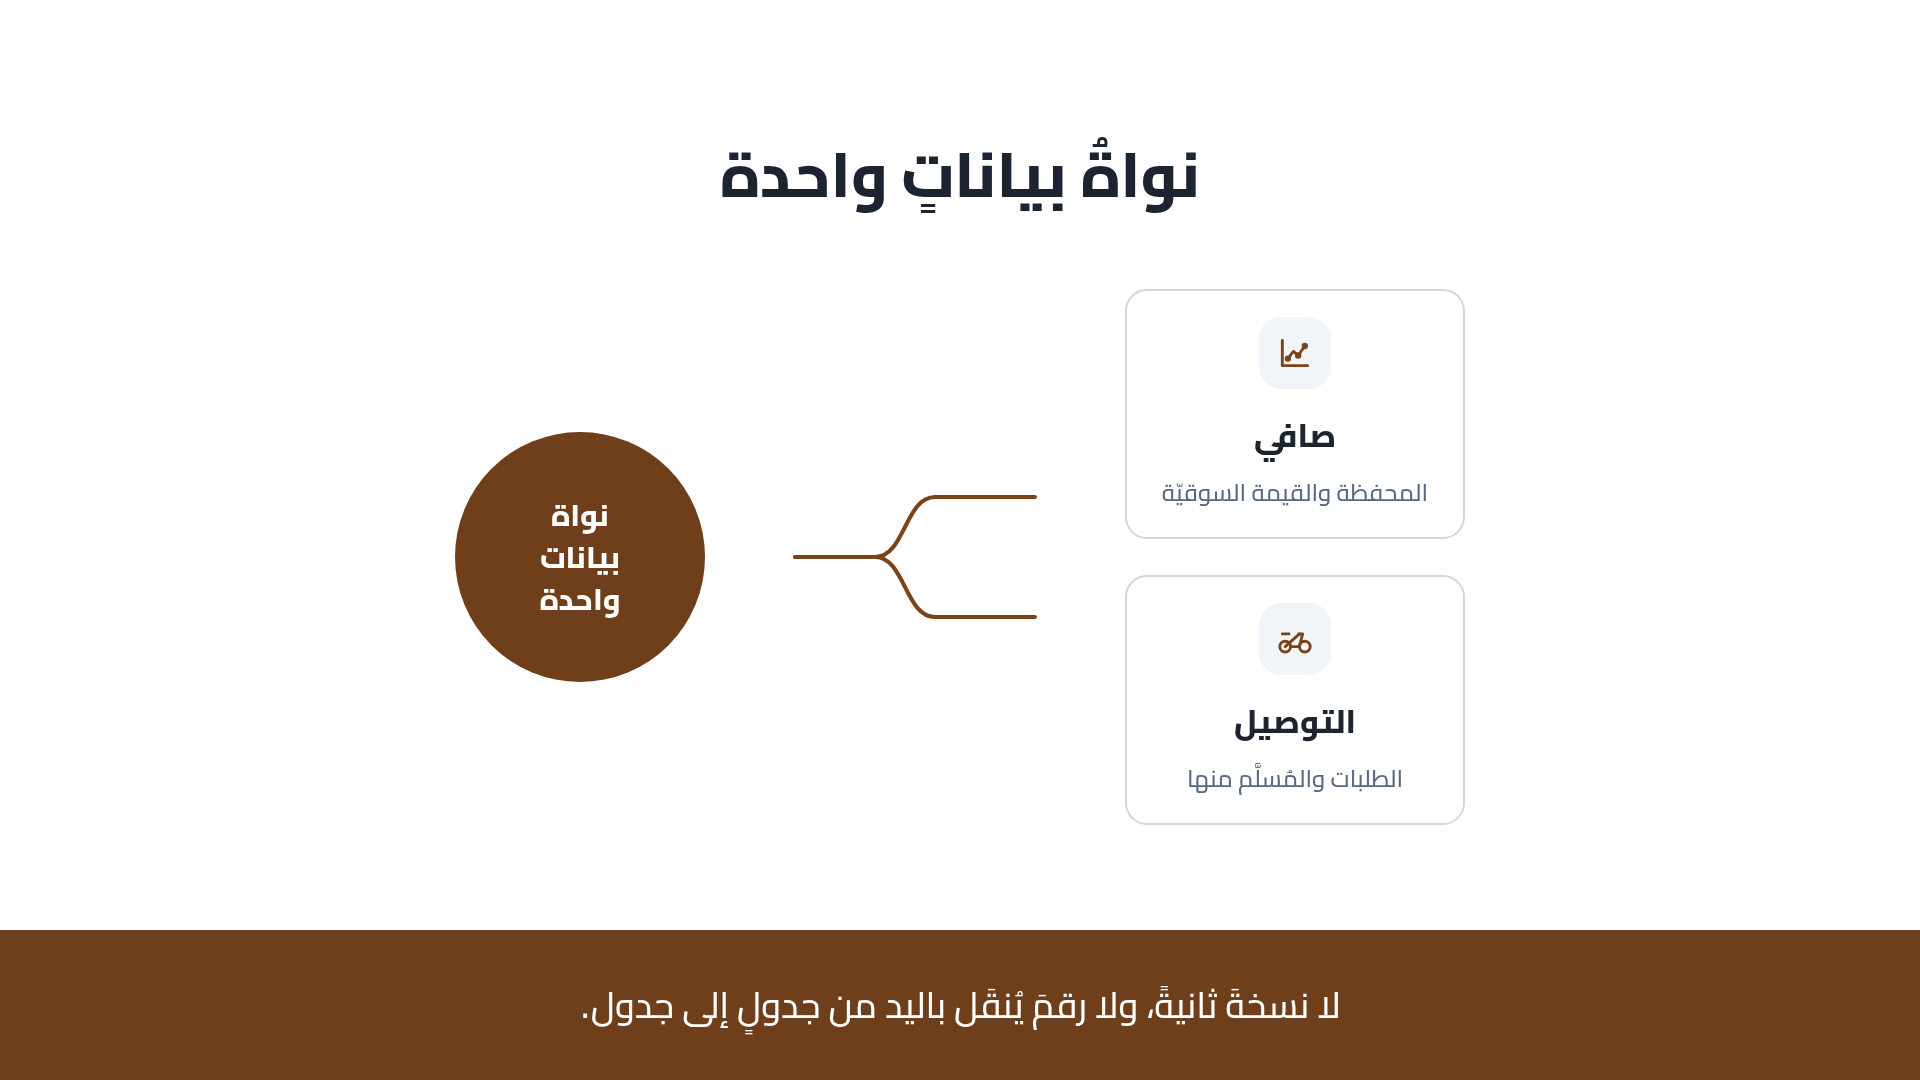
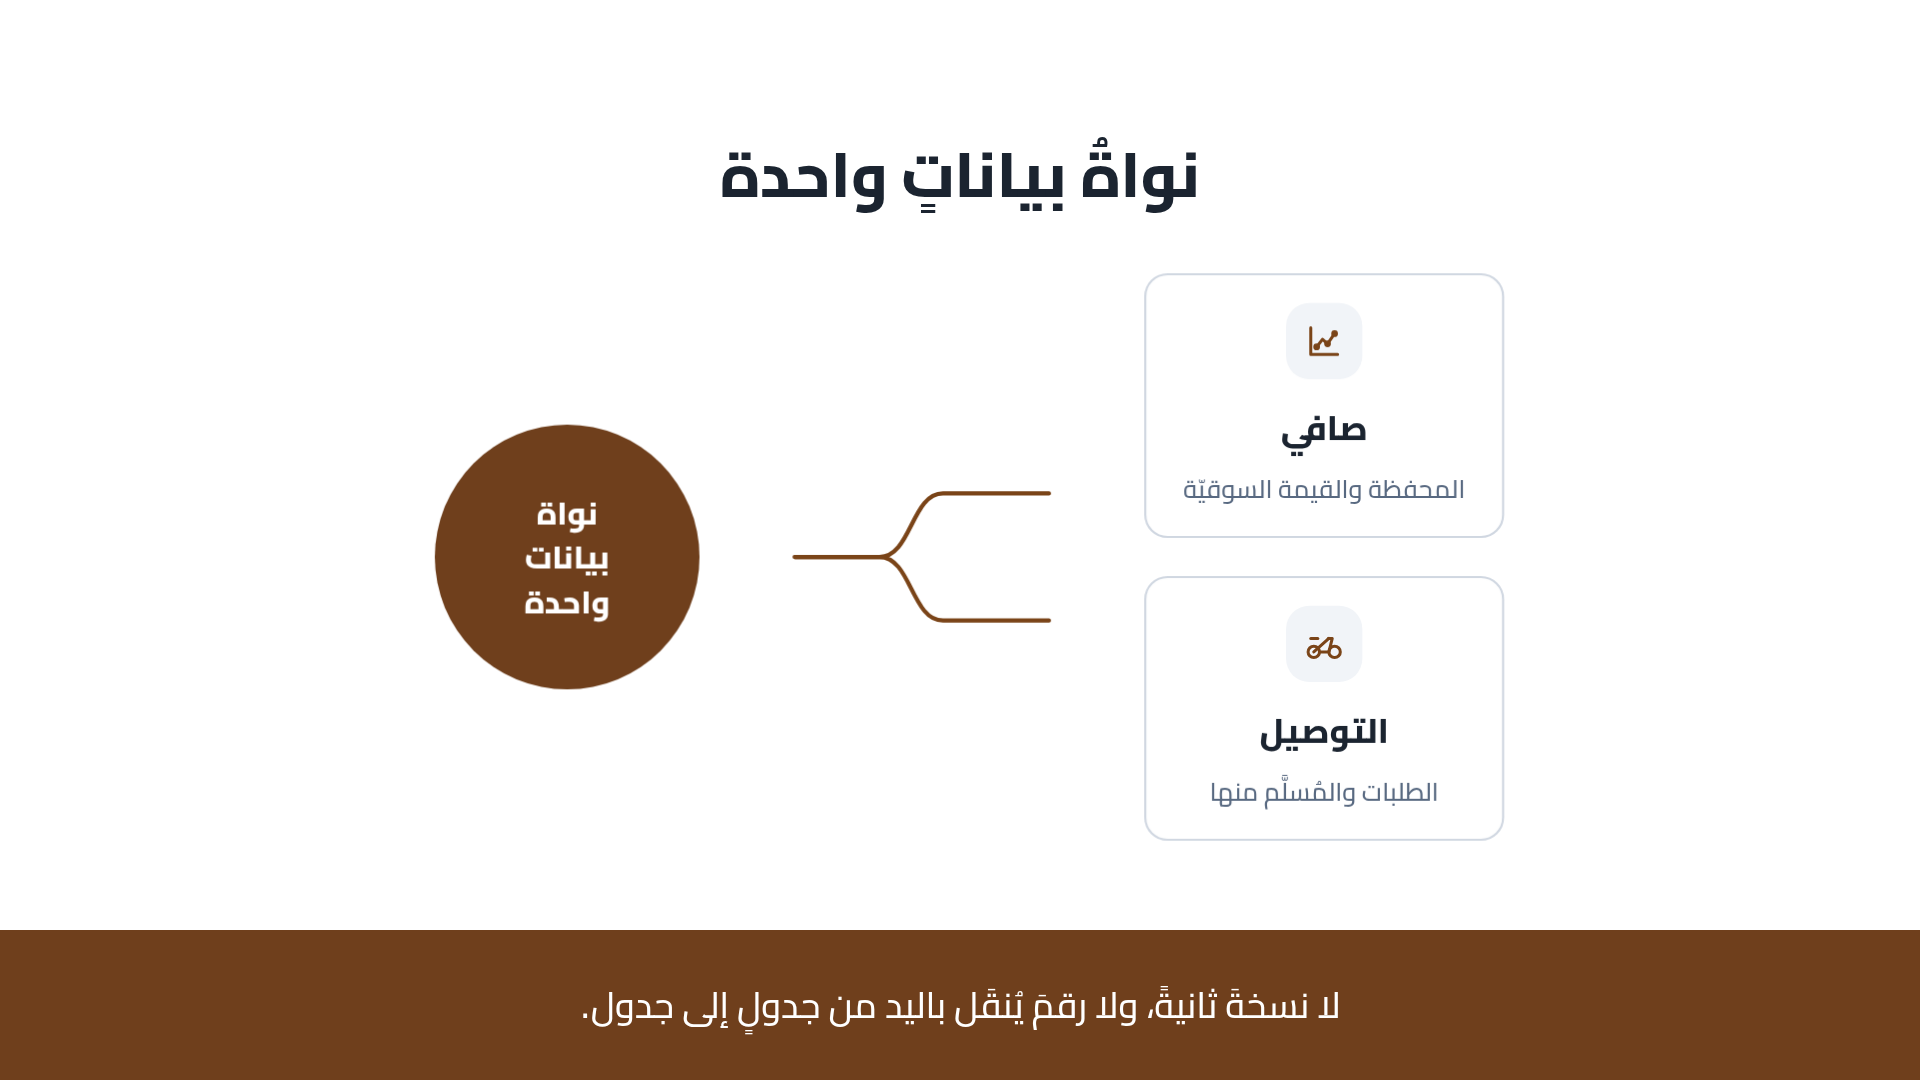
Put a camera on the flow map: push in on the core, then pull back out
The map is the one scene in the film that is a diagram rather than a list,
and it was the one scene where nothing moved once the wires had drawn - two
cards, two lines, a circle, then eleven seconds of stillness.

It now opens wide enough to show that there are two sources, pushes in on the
core as the wires reach it (the point being made at exactly that moment),
holds while the second line is spoken, and pulls back out to leave the whole
shape standing. The transform origin sits off-centre toward the core, so the
push travels toward its subject rather than merely growing.

Two things keep it honest. The extent is bounded at 1.06, not 1.2, because
this scene's content already very nearly fills the safe area and a camera
that pushes its own subject off the bottom of the frame is worse than none -
measured across 41 samples of the scene, the worst moment still clears the
frame by 53px. And its duration comes from the scene's real, voice-derived
length rather than a number written beside the drawing, which would fall out
of step the first time a line was re-recorded; build_film.py passes the
measured duration to any scene that asks for it.

Scale only, on one element, so it is composited and costs nothing to animate.

diff --git a/design/film/film.html b/design/film/film.html
@@ -102,6 +102,31 @@
                        to   { transform: none; opacity: 1; } }
   @keyframes count { from { opacity: 0; transform: translateY(20px); } to { opacity: 1; transform: none; } }
 
+
+  /* ── the camera on the flow map ─────────────────────────────────────────
+     The map is the one scene that is a diagram rather than a list, and it
+     was the one scene where nothing moved once the wires had drawn: two
+     cards, two lines, a circle, then eleven seconds of stillness.
+
+     So a camera. It opens wide enough to show that there are two sources,
+     pushes in on the core as the wires reach it — the point being made at
+     exactly that moment — holds there while the second line is spoken, then
+     pulls back out to leave the whole shape standing.
+
+     The origin is off-centre towards the core, so the push travels toward
+     the thing it is about instead of just growing. Scale only, on one
+     element: composited, so it costs the same as not moving. And the extent
+     is bounded — 1.06, not 1.2 — because the scene's content already very
+     nearly fills the safe area, and a camera that pushes its own subject off
+     the bottom of the frame is worse than no camera. --stills measures it. */
+  .cam { transform-origin: 34% 50%; will-change: transform; }
+  @keyframes camera {
+    0%   { transform: scale(.92); }
+    34%  { transform: scale(1.06); }
+    70%  { transform: scale(1.06); }
+    100% { transform: scale(.99); }
+  }
+
   .cards { display: flex; gap: 32px; margin-top: 40px; }
   .card {
     width: 340px; padding: 26px; border: 2px solid var(--border);
@@ -199,7 +224,8 @@
         <div class="rows"><div class="row" style="animation: slidein 0.55s cubic-bezier(.2,.7,.3,1) 35.96s both;"><span>طلب رقم 1042 — سُلِّم</span><span class="amt ltr">78.500</span></div><div class="row" style="animation: slidein 0.55s cubic-bezier(.2,.7,.3,1) 36.36s both;"><span>طلب رقم 1043 — في الطريق</span><span class="amt ltr">126.000</span></div><div class="row" style="animation: slidein 0.55s cubic-bezier(.2,.7,.3,1) 36.76s both;"><span>طلب رقم 1044 — جاهز</span><span class="amt ltr">45.250</span></div><div class="row total" style="animation: slidein 0.55s cubic-bezier(.2,.7,.3,1) 37.46s both;"><span>إجمالي الطلبات</span><span class="amt ltr">249.750</span></div></div></section>
   <section class="sc" data-scene="core" style="animation: scene 11.61s linear 46.56s both;">
         <h2 style="animation: rise 0.8s cubic-bezier(.2,.7,.3,1) 46.96s both;">نواةُ بياناتٍ واحدة</h2>
-        <div style="display:flex;align-items:center;gap:80px;margin-top:72px">
+        <div class="cam" style="display:flex;align-items:center;gap:80px;
+             margin-top:72px;animation: camera 10.209999999999999s cubic-bezier(.4,0,.2,1) 47.160000000000004s both;">
           <div style="display:flex;flex-direction:column;gap:36px">
             <div class="card" style="animation: rise 0.8s cubic-bezier(.2,.7,.3,1) 47.56s both;"><span class="tile"><svg class="ic" aria-hidden="true"><use href="#i-chart"/></svg></span><b>صافي</b><p>المحفظة والقيمة السوقيّة</p></div>
             <div class="card" style="animation: rise 0.8s cubic-bezier(.2,.7,.3,1) 47.86s both;"><span class="tile"><svg class="ic" aria-hidden="true"><use href="#i-delivery"/></svg></span><b>التوصيل</b><p>الطلبات والمُسلَّم منها</p></div>

diff --git a/design/film/film.template.html b/design/film/film.template.html
@@ -102,6 +102,31 @@
                        to   { transform: none; opacity: 1; } }
   @keyframes count { from { opacity: 0; transform: translateY(20px); } to { opacity: 1; transform: none; } }
 
+
+  /* ── the camera on the flow map ─────────────────────────────────────────
+     The map is the one scene that is a diagram rather than a list, and it
+     was the one scene where nothing moved once the wires had drawn: two
+     cards, two lines, a circle, then eleven seconds of stillness.
+
+     So a camera. It opens wide enough to show that there are two sources,
+     pushes in on the core as the wires reach it — the point being made at
+     exactly that moment — holds there while the second line is spoken, then
+     pulls back out to leave the whole shape standing.
+
+     The origin is off-centre towards the core, so the push travels toward
+     the thing it is about instead of just growing. Scale only, on one
+     element: composited, so it costs the same as not moving. And the extent
+     is bounded — 1.06, not 1.2 — because the scene's content already very
+     nearly fills the safe area, and a camera that pushes its own subject off
+     the bottom of the frame is worse than no camera. --stills measures it. */
+  .cam { transform-origin: 34% 50%; will-change: transform; }
+  @keyframes camera {
+    0%   { transform: scale(.92); }
+    34%  { transform: scale(1.06); }
+    70%  { transform: scale(1.06); }
+    100% { transform: scale(.99); }
+  }
+
   .cards { display: flex; gap: 32px; margin-top: 40px; }
   .card {
     width: 340px; padding: 26px; border: 2px solid var(--border);

diff --git a/design/film/build_film.py b/design/film/build_film.py
@@ -23,6 +23,7 @@ through the Ministry of Commerce portal. No invented customers, no invented
 numbers, no claim the product cannot make.
 """
 
+import inspect
 import json
 import pathlib
 import re
@@ -177,10 +178,11 @@ def scenes():
     ], delivery))
 
     # 5 ─ one data core
-    def core(t):
+    def core(t, dur=10.0):
         return f"""
         <h2 style="{a('rise', t+0.4, 0.8)}">نواةُ بياناتٍ واحدة</h2>
-        <div style="display:flex;align-items:center;gap:80px;margin-top:72px">
+        <div class="cam" style="display:flex;align-items:center;gap:80px;
+             margin-top:72px;{a('camera', t+0.6, dur-1.4, 'cubic-bezier(.4,0,.2,1)')}">
           <div style="display:flex;flex-direction:column;gap:36px">
             {card('i-chart', 'صافي', 'المحفظة والقيمة السوقيّة', t+1.0)}
             {card('i-delivery', 'التوصيل', 'الطلبات والمُسلَّم منها', t+1.3)}
@@ -298,9 +300,15 @@ def build():
         if voiced:
             lines, dur = voiced_timings(lines, voiced, spoken)
             spoken += len(lines)
+        # a scene that moves a camera needs to know how long it is on screen,
+        # and that length comes from the recording — never from a number
+        # written beside the drawing, which would fall out of step the first
+        # time a line was re-recorded
+        want = len(inspect.signature(body).parameters)
         html_scenes.append(
             f'<section class="sc" data-scene="{name}" '
-            f'style="{a("scene", t, dur, "linear")}">{body(t)}</section>')
+            f'style="{a("scene", t, dur, "linear")}">'
+            f'{body(t, dur) if want == 2 else body(t)}</section>')
         for start, end, text in lines:
             captions.append(
                 f'<span style="{a("line", t+start, end-start, "linear")}">{text}</span>')
